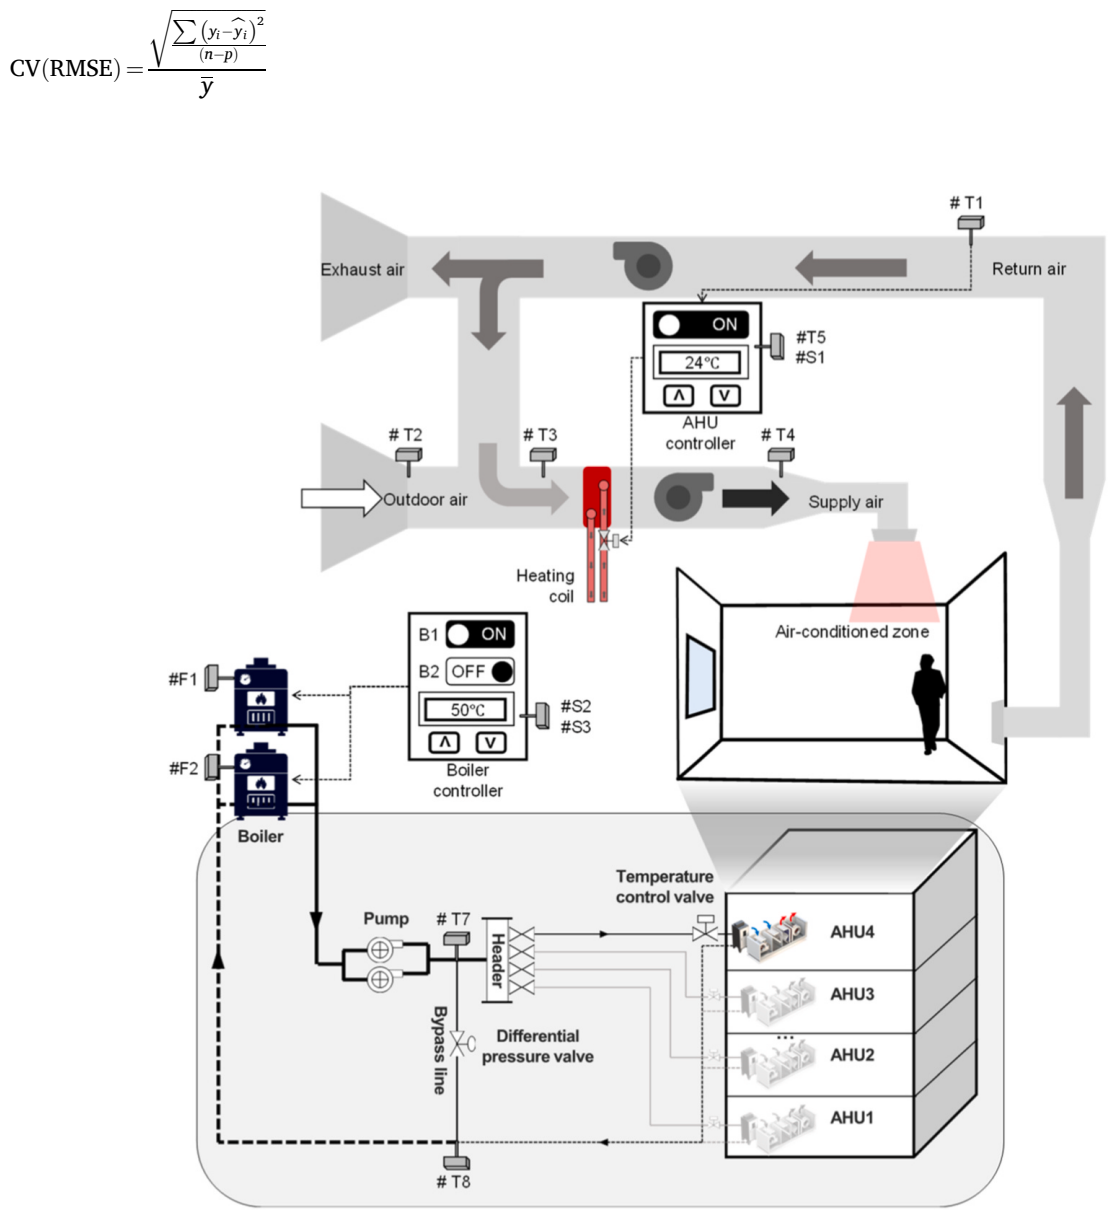
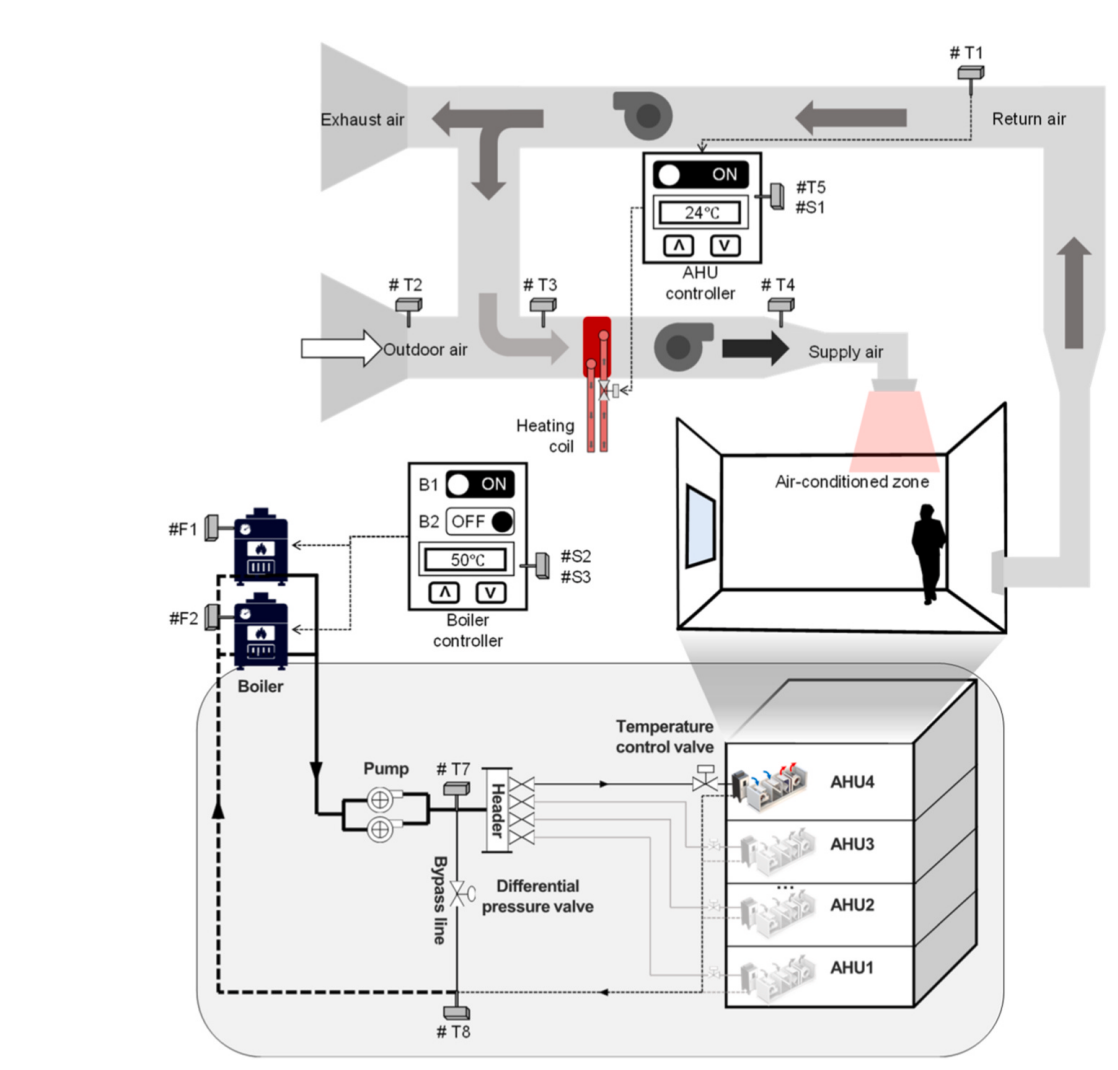
홈페이지 갱신 (sync_deploy.py)

diff --git a/projects.html b/projects.html
@@ -3,8 +3,8 @@
 <head>
 <meta charset="utf-8">
 <meta name="viewport" content="width=device-width, initial-scale=1">
-<title>Projects — 준비중 — 건축설비 자율화 연구실</title>
-<meta name="description" content="Projects 준비중.">
+<title>Projects — 건축설비 자율화 연구실</title>
+<meta name="description" content="건축설비 자율화 연구실 오주홍 교수의 주요 과제 참여 이력과 결과물. 물리 모델과 운영 데이터를 활용한 건물·설비 모델링, Digital Twin, 이상진단, 운전 전략 연구와 설계·성능평가 도구 개발 경험을 소개합니다.">
 <link rel="icon" type="image/png" sizes="64x64" href="assets/favicon.png">
 <link rel="apple-touch-icon" href="assets/apple-touch-icon.png">
 <link rel="stylesheet" href="assets/style.css">
@@ -13,14 +13,261 @@
 <div id="site-nav"></div>
 
 <main>
+
+<!-- ============ 페이지 머리 ============ -->
 <section class="section section--flush">
   <div class="wrap">
     <div class="sec-head sec-head--stack">
       <span class="kicker">Projects</span>
-      <h1>준비중</h1>
+      <h1>현장의 데이터를 모델링·진단·제어로 연결합니다</h1>
+      <p class="lead" style="max-width:66ch">오주홍 교수가 참여한 국가 R&amp;D·산학협력 과제와 개발 도구를 소개합니다. 물리 모델과 운영 데이터를 활용한 건물·설비 모델링, 운영 진단, 운전 전략 연구와 설계·성능평가 도구 개발 경험을 담았습니다.</p>
     </div>
   </div>
 </section>
+
+<!-- ============ 01 주요 참여 과제 ============ -->
+<section class="section" id="key-projects">
+  <div class="wrap">
+    <div class="sec-head">
+      <span class="kicker">01 · Key Projects</span>
+      <div>
+        <h2>주요 참여 과제</h2>
+        <p>건물·설비의 성능 예측, 운영 진단, 제어 전략 연구에 참여한 과제입니다.</p>
+      </div>
+    </div>
+
+    <div class="proj-row">
+      <div class="meta"><b>2026.10 – 현재</b>한국인터넷진흥원(KISA)<br>주관 에스큐아이소프트(주)</div>
+      <div>
+        <h3>마이데이터 기반 지능형 누진요금 예측 및 사전경보 서비스</h3>
+        <p>현재 수행 중인 과제입니다. 주택용 전기 사용량 마이데이터로 누진 구간 진입을 미리 예측하고 알리는 서비스의 분석 엔진을 개발합니다. 요금 계산식에 청구·검침 이력을 결합해 가구별 사용량을 예측하는 방식으로, 하이브리드 예측 연구를 가구 단위로 넓힌 것입니다.</p>
+        <ul>
+          <li>가구별 전기 사용량 예측과 누진 단계 상향 판정</li>
+          <li>요금 계산식과 실제 사용 이력을 결합한 예측 엔진</li>
+          <li>사전경보 서비스용 분석 모듈 설계</li>
+        </ul>
+      </div>
+      <figure class="fig fig--photo">
+        <img src="assets/img/project-mydata-service.png" alt="" onerror="this.parentNode.classList.add('is-missing')">
+        <div class="fig__ph"><span class="fig__ph-tag">MyData service</span><span class="fig__ph-note">누진요금 예측 서비스 · 이미지 준비 중</span></div>
+      </figure>
+    </div>
+
+    <div class="proj-row">
+      <div class="meta"><b>2025년 참여</b>환경부</div>
+      <div>
+        <h3>수열원 변동 대응 대규모 중앙집중형 수열에너지 실증플랜트 기술 개발</h3>
+        <p>수열원의 온도 변화에 대응하는 대규모 히트펌프 시스템의 모델링과 최적제어 연구에 참여했습니다. 히트펌프·축열·건물 부하를 연계한 실증플랜트의 운전 전략을 검토하는 연구입니다.</p>
+        <ul>
+          <li>수열 히트펌프 시스템의 물리 기반 모델링</li>
+          <li>축열과 연계한 운전 전략·제어 알고리즘 검토</li>
+          <li>실증플랜트 적용을 위한 시스템 모델 연계</li>
+        </ul>
+      </div>
+      <figure class="fig fig--photo">
+        <img src="assets/img/project-hydrothermal-plant.jpg" alt="" onerror="this.parentNode.classList.add('is-missing')">
+        <div class="fig__ph"><span class="fig__ph-tag">Hydrothermal energy</span><span class="fig__ph-note">수열에너지 실증플랜트 · 사진 준비 중</span></div>
+      </figure>
+    </div>
+
+    <div class="proj-row">
+      <div class="meta"><b>2021.05 – 2026.04</b>한국에너지기술평가원</div>
+      <div>
+        <h3>자율운전 기반 지능형 건물 에너지 환경 통합 관리시스템(iBEEMS) 개발</h3>
+        <p>박사학위 연구의 기반이 된 과제입니다. 15층 사무용 건물의 BAS 운영 데이터와 설비 사양을 물리 모델에 연결해 Digital Twin을 구축했습니다. 이를 학습 환경으로 활용한 강화학습 제어는 Digital Twin 내 평가에서 기존 규칙 기반 제어 대비 가스 소비량을 약 23% 줄였습니다.</p>
+        <ul>
+          <li>부분 보정과 정격 성능을 결합한 TRNSYS 통합 모델</li>
+          <li>SINN 하이브리드 모델과 대리모델 기반 Digital Twin</li>
+          <li>PPO 기반 다중 에이전트의 보일러 운전 전략 학습·평가</li>
+        </ul>
+      </div>
+      <figure class="fig fig--frame" style="--ar:1/1">
+        <img src="assets/img/fig-hvac-system-boilers.png" alt="실증 건물 HVAC 시스템 구성도" onerror="this.parentNode.classList.add('is-missing')">
+        <figcaption>실증 건물의 HVAC 시스템 구성<span class="src">Oh et al., J. Build. Eng. 120 (2026)</span></figcaption>
+      </figure>
+    </div>
+
+    <div class="proj-row">
+      <div class="meta"><b>2021.09 – 2022.07</b>한국건물에너지기술원</div>
+      <div>
+        <h3>설비상태진단을 위한 TRNSYS 모델 개발 및 학습기반 시스템 모델링</h3>
+        <p>HVAC 이상진단(FDD)에 활용할 물리 모델과 데이터 기반 모델을 개발했습니다. 관련 연구로 BEMS 운영 데이터 기반 진단 프레임워크 논문(설비공학 논문집, 2026)과 특허 「HVAC 시스템의 고장 진단 방법 및 이를 이용한 장치」(2024)가 있습니다.</p>
+      </div>
+      <figure class="fig fig--frame" style="--ar:16/9">
+        <img src="assets/img/fig-fdd-framework.png" alt="BEMS 데이터 기반 운영 진단 프레임워크" onerror="this.parentNode.classList.add('is-missing')">
+        <figcaption>BEMS 데이터 기반 운영 진단 프레임워크<span class="src">오주홍 외, 설비공학 논문집 38(2) (2026)</span></figcaption>
+      </figure>
+    </div>
+
+    <div class="proj-row">
+      <div class="meta"><b>2025.05 – 2025.11</b>한국에너지공단</div>
+      <div>
+        <h3>제로에너지건축물 실태조사 및 모니터링 운영개선 지원</h3>
+        <p>BEMS 운영 데이터로 제로에너지건축물의 설비 상태와 에너지 사용 특성을 진단하고, 모니터링 체계와 운전 방식의 개선 방안을 검토했습니다.</p>
+      </div>
+      <figure class="fig fig--photo">
+        <img src="assets/img/project-zeb-monitoring.jpg" alt="" onerror="this.parentNode.classList.add('is-missing')">
+        <div class="fig__ph"><span class="fig__ph-tag">ZEB monitoring</span><span class="fig__ph-note">제로에너지건축물 모니터링 · 사진 준비 중</span></div>
+      </figure>
+    </div>
+
+    <div class="proj-row">
+      <div class="meta"><b>2024.11 – 2025.12</b>Infineon</div>
+      <div>
+        <h3>Edge device 레이더 센서 기반 재실자 낙상감지 기술 개발</h3>
+        <p>레이더 센서 데이터로 재실자의 낙상을 감지하는 경량 머신러닝(TinyML) 모델을 개발했습니다. 엣지 디바이스에서 직접 추론하는 AI 모델의 구현 경험입니다.</p>
+      </div>
+      <figure class="fig fig--photo">
+        <img src="assets/img/project-fall-detection-device.jpg" alt="" onerror="this.parentNode.classList.add('is-missing')">
+        <div class="fig__ph"><span class="fig__ph-tag">Edge AI</span><span class="fig__ph-note">레이더 기반 낙상 감지 · 사진 준비 중</span></div>
+      </figure>
+    </div>
+
+    <div class="proj-row">
+      <div class="meta"><b>2023.06 – 2024.01</b>삼성 (산학)</div>
+      <div>
+        <h3>Digital Twin 에너지 시뮬레이터 — 설비 경년변화 추적</h3>
+        <p>시간에 따른 설비 성능 변화를 추적하는 Digital Twin 시뮬레이터 모듈을 개발했습니다. 냉동기의 설계 성능과 운영 데이터를 비교해 운전 상태와 성능 변화를 파악하는 도구입니다.</p>
+      </div>
+      <figure class="fig fig--frame" style="--ar:16/9">
+        <img src="assets/img/shot-dt-monitoring-program.png" alt="냉동기 COP 실시간 모니터링 프로그램 화면" onerror="this.parentNode.classList.add('is-missing')">
+        <figcaption>냉동기 성능(COP) 실시간 모니터링 화면. 설계 성능 범위와 현재 운전점</figcaption>
+      </figure>
+    </div>
+  </div>
+</section>
+
+<!-- ============ 02 결과품·개발품 ============ -->
+<section class="section" id="results">
+  <div class="wrap">
+    <div class="sec-head">
+      <span class="kicker">02 · Results</span>
+      <div>
+        <h2>결과품·개발품</h2>
+        <p>과제에서 얻은 결과를 40초 안팎의 애니메이션으로 보여 줍니다. Play를 누르면 재생됩니다.</p>
+      </div>
+    </div>
+
+    <div class="demos">
+      <article class="demo">
+        <span class="area__no">Modeling · Calibration</span>
+        <h3 lang="en">Finding the Parameters</h3>
+        <p>입자군집 최적화가 존 RC 모델의 변수 11개를 찾아가는 과정과 보정 전후의 실내온도 오차를 비교합니다.</p>
+        <iframe class="demo__frame" src="demos/calibration/cal-demo.html" title="Calibration demo" loading="lazy"></iframe>
+      </article>
+
+      <article class="demo">
+        <span class="area__no">Operation · Fault Detection</span>
+        <h3 lang="en">Fixed vs. Adaptive Fault Detection</h3>
+        <p>같은 잔차를 고정 임계값과 적응형 기대범위로 나란히 판정해 오탐이 어떻게 줄어드는지 보여 줍니다.</p>
+        <iframe class="demo__frame" src="demos/fdd-v2/fdd-demo.html" title="Fault detection demo" loading="lazy"></iframe>
+      </article>
+
+      <article class="demo">
+        <span class="area__no">Autonomous Control · Reinforcement Learning</span>
+        <h3 lang="en">Rule-based vs. Reinforcement Learning</h3>
+        <p>같은 건물, 같은 5일을 원제어와 강화학습 제어로 나란히 운전해 가스 사용량과 실내온도를 비교합니다.</p>
+        <iframe class="demo__frame" src="demos/rl-control/rl-demo.html" title="Optimal control demo" loading="lazy"></iframe>
+      </article>
+
+      <article class="demo">
+        <span class="area__no">Other Services · Edge Device</span>
+        <h3 lang="en">Fall Detection Without a Camera</h3>
+        <p>레이더 센서와 엣지 장치로 카메라 없이 낙상을 감지하고 보호자에게 알리는 과정입니다.</p>
+        <iframe class="demo__frame" src="demos/fall-detection/fall-detection.html" title="Fall detection demo" loading="lazy"></iframe>
+      </article>
+    </div>
+  </div>
+</section>
+
+<!-- ============ 03 산업 실무 ============ -->
+<section class="section" id="tools">
+  <div class="wrap">
+    <div class="sec-head">
+      <span class="kicker">03 · Industry Tools</span>
+      <div>
+        <h2>설계·성능평가 도구 개발</h2>
+        <p>산업체·연구기관 재직 중 개발에 참여한 실무 프로그램입니다. 건물의 물리적 특성과 설비 계산 방법을 소프트웨어로 구현해 설계와 에너지 성능평가에 활용했습니다.</p>
+      </div>
+    </div>
+
+    <div class="proj-row">
+      <div class="meta"><b>2016.11 – 2019.09</b>한국에너지기술평가원</div>
+      <div>
+        <h3>제로에너지빌딩 요소기술 패키지 융복합화 및 실증연구 — ZEB 성능평가 플랫폼</h3>
+        <p>도면을 바탕으로 공간과 설비 정보를 입력해 제로에너지빌딩의 성능을 평가하는 서비스 플랫폼을 개발했습니다. 패시브·액티브 요소기술의 정보 목록도 함께 구축했습니다.</p>
+      </div>
+      <figure class="fig fig--frame" style="--ar:16/9">
+        <img src="assets/img/shot-zeb-performance-tool.png" alt="ZEB 성능평가 툴 화면" onerror="this.parentNode.classList.add('is-missing')">
+        <figcaption>ZEB 성능평가 프로그램의 도면 기반 공간 입력 화면</figcaption>
+      </figure>
+    </div>
+
+    <div class="proj-row">
+      <div class="meta"><b>2016.12 – 2018.09</b>한국에너지기술평가원</div>
+      <div>
+        <h3>건물용 냉난방배관·순환펌프·유량조절밸브 선정을 위한 수배관시스템 계산 프로그램 개발</h3>
+        <p>냉난방 수배관의 배관·펌프·밸브 선정을 지원하는 계산 프로그램을 개발했습니다. 개발 과정과 실무 활용 가능성 평가 결과를 학술지 논문(한국건축친환경설비학회, 2019)으로 발표했습니다.</p>
+      </div>
+      <figure class="fig fig--photo" style="--ar:16/9">
+        <img src="assets/img/project-hydronic-program.png" alt="" onerror="this.parentNode.classList.add('is-missing')">
+        <div class="fig__ph"><span class="fig__ph-tag">Hydronic system design</span><span class="fig__ph-note">수배관 설계 프로그램 · 이미지 준비 중</span></div>
+      </figure>
+    </div>
+
+    <div class="proj-row">
+      <div class="meta"><b>2017.12 – 2020.11</b>한국에너지기술평가원</div>
+      <div>
+        <h3>대형사업장의 에너지절감 리트로핏 솔루션</h3>
+        <p>대형 사업장의 에너지 성능 개선을 위해 절감 조치를 진단하고 예상 효과를 산정하는 알고리즘과 프로그램을 개발했습니다.</p>
+      </div>
+      <figure class="fig fig--photo" style="--ar:16/9">
+        <img src="assets/img/project-retrofit-solution.png" alt="" onerror="this.parentNode.classList.add('is-missing')">
+        <div class="fig__ph"><span class="fig__ph-tag">Energy retrofit</span><span class="fig__ph-note">에너지 성능 개선 프로그램 · 이미지 준비 중</span></div>
+      </figure>
+    </div>
+  </div>
+</section>
+
+<!-- ============ 04 전체 목록 ============ -->
+<section class="section" id="history">
+  <div class="wrap">
+    <div class="sec-head">
+      <span class="kicker">04 · Project History</span>
+      <h2>과제 참여 이력</h2>
+    </div>
+    <details open>
+      <summary>주요 국가 R&amp;D·산학협력 과제 19건 (2011년 이후)</summary>
+      <div style="overflow-x:auto;margin-top:14px">
+      <table class="table">
+        <thead><tr><th>Period</th><th>Project</th><th>Funder</th></tr></thead>
+        <tbody>
+          <tr><td class="mono">2026.10 – 현재</td><td>마이데이터 기반 지능형 누진요금 예측 및 사전경보 서비스</td><td>한국인터넷진흥원</td></tr>
+          <tr><td class="mono">2025년 참여</td><td>수열원 변동 대응 대규모 중앙집중형 수열에너지 실증플랜트 기술 개발</td><td>환경부</td></tr>
+          <tr><td class="mono">2025.05 – 2025.11</td><td>제로에너지건축물 실태조사 및 모니터링 운영개선 지원</td><td>한국에너지공단</td></tr>
+          <tr><td class="mono">2024.11 – 2025.12</td><td>Edge device 레이더 센서 기반 재실자 낙상감지 기술 개발</td><td>Infineon</td></tr>
+          <tr><td class="mono">2023.06 – 2024.01</td><td>디지털트윈 에너지 시뮬레이터</td><td>삼성</td></tr>
+          <tr><td class="mono">2021.09 – 2022.07</td><td>설비상태진단을 위한 TRNSYS 모델 개발 및 학습기반 시스템 모델링</td><td>한국건물에너지기술원</td></tr>
+          <tr><td class="mono">2021.05 – 2026.04</td><td>자율운전 기반 지능형 건물 에너지 환경 통합 관리시스템(iBEEMS) 개발</td><td>한국에너지기술평가원</td></tr>
+          <tr><td class="mono">2020.05 – 2024.12</td><td>에너지 절감형 스마트조명 플랫폼 기술 개발 및 실증</td><td>한국에너지기술평가원</td></tr>
+          <tr><td class="mono">2020.04 – 2021.12</td><td>주택용 전력 품질데이터 AI 분석을 통한 벤치마킹 시스템 개발</td><td>국토교통과학기술진흥원</td></tr>
+          <tr><td class="mono">2019.04 – 2022.12</td><td>노후 소규모 건축물 품질 및 성능 향상을 위한 리모델링 기술 개발</td><td>국토교통과학기술진흥원</td></tr>
+          <tr><td class="mono">2018.10 – 2021.09</td><td>건물에너지 효율향상을 위한 IoT 기기간 연동 지능형 공조제어시스템</td><td>한국에너지기술평가원</td></tr>
+          <tr><td class="mono">2017.12 – 2021.05</td><td>유통 물류시설 에너지관리용 ESS 기반 융복합 제품 개발 및 실증 연구</td><td>한국에너지기술평가원</td></tr>
+          <tr><td class="mono">2017.12 – 2020.11</td><td>대형사업장의 에너지절감 리트로핏 솔루션</td><td>한국에너지기술평가원</td></tr>
+          <tr><td class="mono">2016.12 – 2018.09</td><td>건물용 냉난방배관·순환펌프·유량조절밸브 선정을 위한 수배관시스템 계산 프로그램 개발</td><td>한국에너지기술평가원</td></tr>
+          <tr><td class="mono">2016.11 – 2019.09</td><td>제로에너지빌딩 요소기술 패키지(패시브&amp;액티브) 융복합화 및 실증연구</td><td>한국에너지기술평가원</td></tr>
+          <tr><td class="mono">2016.08 – 2017.12</td><td>건물 난방 배관 세정기 기술개발</td><td>한국에너지기술평가원</td></tr>
+          <tr><td class="mono">2016.04 – 2018.12</td><td>차세대 건자재 공간단위 에너지·환경성능 시험 및 보완을 위한 실증연구</td><td>㈜LG하우시스</td></tr>
+          <tr><td class="mono">2015.06 – 2018.05</td><td>건물에너지 시뮬레이션과 스마트 미터링 기술을 활용한 중소형 건물에너지 통합진단기술 개발 및 실증</td><td>한국에너지기술평가원</td></tr>
+          <tr><td class="mono">2011.09 – 2014.12</td><td>건물에너지 성능 평가모델 및 성능개선 프로세스 표준화 개발</td><td>국토교통부 (단국대학교)</td></tr>
+        </tbody>
+      </table>
+      </div>
+    </details>
+  </div>
+</section>
+
 </main>
 
 <div id="site-footer"></div>

diff --git a/index.html b/index.html
@@ -170,51 +170,11 @@
   </div>
 </section>
 
-<!-- ============ 04 데모 ============ -->
-<section class="section" id="demos">
-  <div class="wrap">
-    <div class="sec-head sec-head--stack">
-      <span class="kicker">04 · Demos</span>
-      <p>연구 결과를 40초 안팎의 애니메이션으로 보여 줍니다. Play를 누르면 재생됩니다.</p>
-    </div>
-
-    <div class="demos">
-      <article class="demo">
-        <span class="area__no">Modeling · Calibration</span>
-        <h3 lang="en">Finding the Parameters</h3>
-        <p>입자군집 최적화가 존 RC 모델의 변수 11개를 찾아가는 과정과 보정 전후의 실내온도 오차를 비교합니다.</p>
-        <iframe class="demo__frame" src="demos/calibration/cal-demo.html" title="Calibration demo" loading="lazy"></iframe>
-      </article>
-
-      <article class="demo">
-        <span class="area__no">Operation · Fault Detection</span>
-        <h3 lang="en">Fixed vs. Adaptive Fault Detection</h3>
-        <p>같은 잔차를 고정 임계값과 적응형 기대범위로 나란히 판정해 오탐이 어떻게 줄어드는지 보여 줍니다.</p>
-        <iframe class="demo__frame" src="demos/fdd-v2/fdd-demo.html" title="Fault detection demo" loading="lazy"></iframe>
-      </article>
-
-      <article class="demo">
-        <span class="area__no">Autonomous Control · Reinforcement Learning</span>
-        <h3 lang="en">Rule-based vs. Reinforcement Learning</h3>
-        <p>같은 건물, 같은 5일을 원제어와 강화학습 제어로 나란히 운전해 가스 사용량과 실내온도를 비교합니다.</p>
-        <iframe class="demo__frame" src="demos/rl-control/rl-demo.html" title="Optimal control demo" loading="lazy"></iframe>
-      </article>
-
-      <article class="demo">
-        <span class="area__no">Other Services · Edge Device</span>
-        <h3 lang="en">Fall Detection Without a Camera</h3>
-        <p>레이더 센서와 엣지 장치로 카메라 없이 낙상을 감지하고 보호자에게 알리는 과정입니다.</p>
-        <iframe class="demo__frame" src="demos/fall-detection/fall-detection.html" title="Fall detection demo" loading="lazy"></iframe>
-      </article>
-    </div>
-  </div>
-</section>
-
-<!-- ============ 05 함께할 사람 ============ -->
+<!-- ============ 04 함께할 사람 ============ -->
 <section class="section" id="join">
   <div class="wrap">
     <div class="sec-head">
-      <span class="kicker">05 · Join</span>
+      <span class="kicker">04 · Join</span>
       <p class="cta">함께 연구할 대학원생·학부연구생을 모집합니다.<br><a href="mailto:juhongoh@pknu.ac.kr?subject=건축설비%20자율화%20연구실%20지원%20문의">juhongoh@pknu.ac.kr</a></p>
     </div>
     <p class="more"><a class="arrow" href="members.html#join">학생 모집 안내</a><span class="sep">|</span><a class="arrow" href="professor.html#collab">산학협력</a></p>
